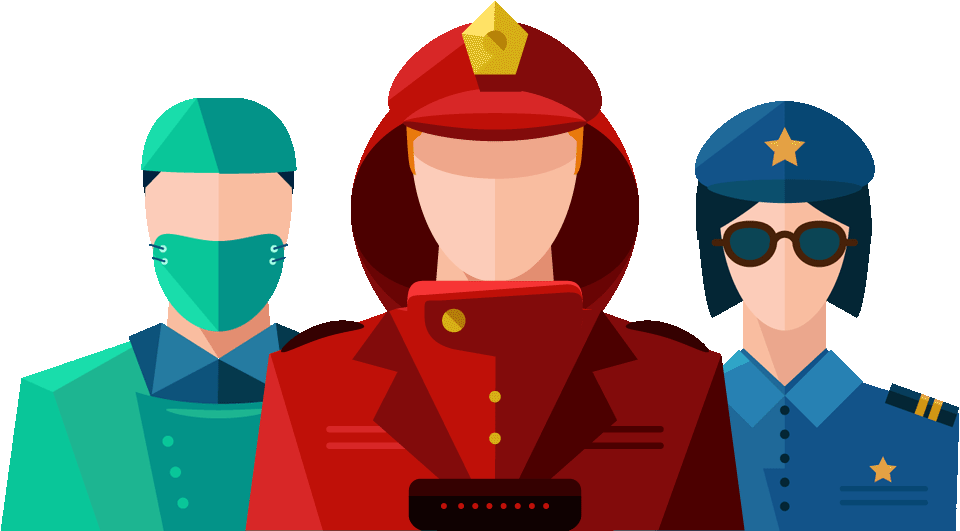
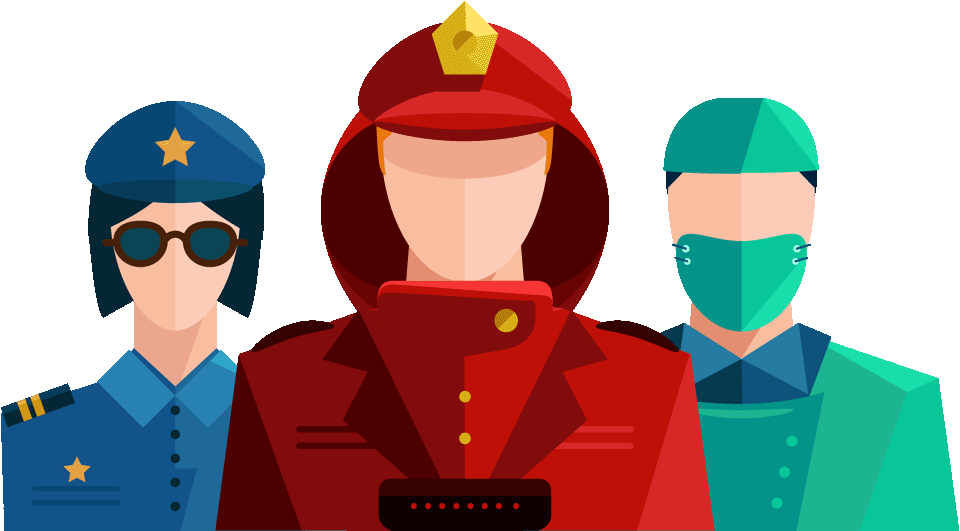
prepared for posting posts to api

diff --git a/src/App.scss b/src/App.scss
@@ -13,7 +13,11 @@ body {
   margin: 1rem 0;
   background-repeat: no-repeat;
   background-attachment: fixed;
-  background-image: linear-gradient(to right, rgb(29, 167, 121), rgb(17, 104, 155));
+  background-image: linear-gradient(
+    to right,
+    rgb(29, 167, 121),
+    rgb(17, 104, 155)
+  );
 }
 
 .wrapper {
@@ -33,8 +37,6 @@ body {
 
 .title {
   margin: auto;
-  width: -webkit-max-content;
-  width: -moz-max-content;
   width: max-content;
   border: solid var(--line-thickness);
   border-radius: 100vh;
@@ -129,22 +131,22 @@ body {
   display: grid;
   grid-template-columns: repeat(2, 1fr);
   gap: 1rem;
-}
-@media (min-width: 500px) {
-  .avatars {
+
+  @media (min-width: 500px) {
     grid-template-columns: repeat(3, 1fr);
   }
-}
-@media (min-width: 750px) {
-  .avatars {
+  @media (min-width: 750px) {
     grid-template-columns: repeat(4, 1fr);
   }
-}
-@media (min-width: 1000px) {
-  .avatars {
+  @media (min-width: 1000px) {
     grid-template-columns: repeat(6, 1fr);
   }
 }
+
+// @media (min-width: 400px) {
+//   grid-template-columns: repeat(3, 1fr);
+
+// }
 
 .avatars-modal {
   background-color: rgba(12, 48, 46, 0.98);
@@ -154,19 +156,20 @@ body {
   z-index: 10;
   justify-self: center;
   padding: 0 3rem;
-  width: 100%;
+  width: 100%
 }
 
 .footer {
   font-size: small;
 }
 
+.feed {
+}
+
 .signed-in-user {
   display: grid;
   grid-template-columns: 4rem 1fr auto;
   align-items: center;
-  width: -webkit-max-content;
-  width: -moz-max-content;
   width: max-content;
   background-color: var(--bg-alpha-1);
   border-radius: 3rem;
@@ -174,73 +177,83 @@ body {
   padding: 0.5rem;
   margin: 0.5rem auto;
   min-width: 24rem;
-}
-.signed-in-user .door {
-  width: 2rem;
-  color: #fff;
-  margin-left: 0.5rem;
-  transform: rotate(180deg);
-}
-.signed-in-user .door:hover {
-  transform: scale(1.05) rotate(180deg);
-}
-.signed-in-user .icon {
-  border: solid var(--line-thickness);
-  border-radius: 100vh;
-  padding: 0.5rem;
-  background-color: var(--bg-alpha-1);
-  margin-right: 0.5rem;
-  padding: 0;
-}
-.signed-in-user img {
-  cursor: pointer;
+
+  .door {
+    width: 2rem;
+    color: #fff;
+    margin-left: 0.5rem;
+    transform: rotate(180deg);
+  }
+
+  .door:hover {
+    transform: scale(1.05) rotate(180deg);
+  }
+
+  .icon {
+    border: solid var(--line-thickness);
+    border-radius: 100vh;
+    padding: 0.5rem;
+    background-color: var(--bg-alpha-1);
+    margin-right: 0.5rem;
+    padding: 0;
+  }
+
+  img {
+    cursor: pointer;
+  }
 }
 
-.post-edit-form .top-icon {
-  width: 2rem;
-  margin-bottom: -10px;
-  margin-left: 50%;
-  transform: translateX(-500%);
+.post-edit-form {
+  .top-icon {
+    width: 2rem;
+    margin-bottom: -10px;
+    margin-left: 50%;
+    transform: translateX(-500%);
+  }
+
+  .form {
+    border: solid var(--line-thickness);
+    border-radius: 3rem;
+    background-color: var(--bg-alpha-1);
+    max-width: 600px;
+    margin: auto;
+    margin-top: 0;
+    padding: 1rem;
+
+    .content-input {
+      width: 100%;
+      padding: 1rem 0;
+      border-radius: 1rem;
+      border: none;
+      margin: auto;
+      margin-top: 1rem;
+      font-family: Poppins, sans-serif;
+      text-align: center;
+    }
+
+    button {
+      padding: 1rem;
+      background-color: var(--bg-alpha-1);
+      border-radius: 1rem;
+      text-transform: uppercase;
+      border: solid var(--line-thickness);
+      color: #fff;
+      margin-top: 0.5rem;
+      width: 100%;
+    }
+  }
+
+  .icon {
+    border: solid var(--line-thickness);
+    border-radius: 100vh;
+    padding: 0.5rem;
+    background-color: var(--bg-alpha-1);
+    margin-right: 0.5rem;
+    padding: 0;
+    width: 2rem;
+  }
+  .says {
+    font-size: 0.8rem;
+    margin-left: 2rem;
+  }
 }
-.post-edit-form .form {
-  border: solid var(--line-thickness);
-  border-radius: 3rem;
-  background-color: var(--bg-alpha-1);
-  max-width: 600px;
-  margin: auto;
-  margin-top: 0;
-  padding: 1rem;
-}
-.post-edit-form .form .content-input {
-  width: 100%;
-  padding: 1rem 0;
-  border-radius: 1rem;
-  border: none;
-  margin: auto;
-  margin-top: 1rem;
-  font-family: Poppins, sans-serif;
-  text-align: center;
-}
-.post-edit-form .form button {
-  padding: 1rem;
-  background-color: var(--bg-alpha-1);
-  border-radius: 1rem;
-  text-transform: uppercase;
-  border: solid var(--line-thickness);
-  color: #fff;
-  margin-top: 0.5rem;
-  width: 100%;
-}
-.post-edit-form .icon {
-  border: solid var(--line-thickness);
-  border-radius: 100vh;
-  padding: 0.5rem;
-  background-color: var(--bg-alpha-1);
-  margin-right: 0.5rem;
-  padding: 0;
-  width: 2rem;
-}
-.post-edit-form .says {
-  font-size: 0.8rem;
-  margin-left: 2rem;
-}/*# sourceMappingURL=App.css.map */

diff --git a/src/components/PostEditForm.js b/src/components/PostEditForm.js
@@ -1,0 +1,42 @@
+import React, { useState } from 'react';
+import avatars from '../img/avatars/avatars';
+import { capitalize } from '../helpers/utils';
+
+export const PostEditForm = ({ user }) => {
+  const [content, setContent] = useState('');
+
+  const handleSubmit = (e) => {
+    e.preventDefault();
+    alert('state: ' + content);
+  };
+
+  return (
+    <div className='post-edit-form'>
+      <img
+        src={avatars[user.avatarId].icon}
+        alt={avatars[user.avatarId].name}
+        className='top-icon'
+      />
+      <div className='form'>
+        <label htmlFor='content' className='says'>
+          {capitalize(user.nickname)} says:
+        </label>
+        <form onSubmit={handleSubmit}>
+          <textarea
+            type='text'
+            name='content'
+            id='content'
+            className='content-input'
+            rows={5}
+            value={content}
+            placeholder='your thoughts to go here :)'
+            onChange={(e) => {
+              setContent(e.target.value);
+            }}
+          />
+          <button>submit</button>
+        </form>
+      </div>
+    </div>
+  );
+};

diff --git a/src/components/Feed.js b/src/components/Feed.js
@@ -1,8 +1,8 @@
 import React, { useEffect, useState } from 'react';
 import axios from 'axios';
-import avatars from '../img/avatars/avatars';
-import { Avatar } from './Avatar';
 import { API_URL } from '../helpers/api_urls';
+import { CurrentUser } from './CurrentUser';
+import { PostEditForm } from './PostEditForm';
 
 export const Feed = ({ userId, logout }) => {
   const [currentUser, setCurrentUser] = useState();
@@ -11,18 +11,12 @@ export const Feed = ({ userId, logout }) => {
     axios.get(API_URL.concat(userId)).then((resp) => {
       setCurrentUser(resp.data);
     });
-  }, [currentUser]);
+  }, []);
 
   return (
     <div className='feed'>
-      <p>Feed content here</p>
-      <p>Current UserId: {currentUser && currentUser.id}</p>
-      <img
-        src={currentUser && avatars[currentUser.avatar].icon}
-        alt='avatar'
-        className='avatar avatar-big'
-        onClick={() => logout(null)}
-      />
+      {currentUser && <CurrentUser user={currentUser} signout={logout} />}
+      {currentUser && <PostEditForm user={currentUser} />}
     </div>
   );
 };

diff --git a/src/components/CurrentUser.js b/src/components/CurrentUser.js
@@ -1,0 +1,26 @@
+import React from 'react';
+import avatars from '../img/avatars/avatars';
+import exitIcon from '../img/logout.svg';
+import { capitalize } from '../helpers/utils';
+
+export const CurrentUser = ({ user, signout }) => {
+  return (
+    <div className='signed-in-user'>
+      <img
+        src={avatars[user.avatarId].icon}
+        alt={avatars[user.avatarId].name}
+        className='icon'
+      />
+      <p>
+        Signed in as {user.nickname} the{' '}
+        {capitalize(avatars[user.avatarId].name)}
+      </p>
+      <img
+        src={exitIcon}
+        alt='sign out'
+        className='door'
+        onClick={() => signout(null)}
+      />
+    </div>
+  );
+};

diff --git a/src/components/Header.js b/src/components/Header.js
@@ -1,10 +1,10 @@
 import React from 'react';
-import logo from '../img/avatar-group-flipped.png';
+import logo from '../img/avatar-group.png';
 
 export const Header = () => {
   return (
     <>
-      <img src={logo} className='logo' alt='' />
+      <img src={logo} className='logo' alt='logo' />
       <h1 className='title'>Social App Prototype.</h1>
     </>
   );

diff --git a/src/components/SignIn.js b/src/components/SignIn.js
@@ -16,7 +16,7 @@ export const SignIn = ({ setUserId }) => {
       const user = {
         id: 0,
         nickname: nickname,
-        avatar: avatarIndex,
+        avatarId: avatarIndex,
       };
       const resp = await axios.post(API_URL + 'post', user);
       setUserId(resp.data);

diff --git a/src/helpers/utils.js b/src/helpers/utils.js
@@ -1,0 +1,3 @@
+export const capitalize = (input) => {
+  return input.charAt(0).toUpperCase() + input.slice(1);
+};
